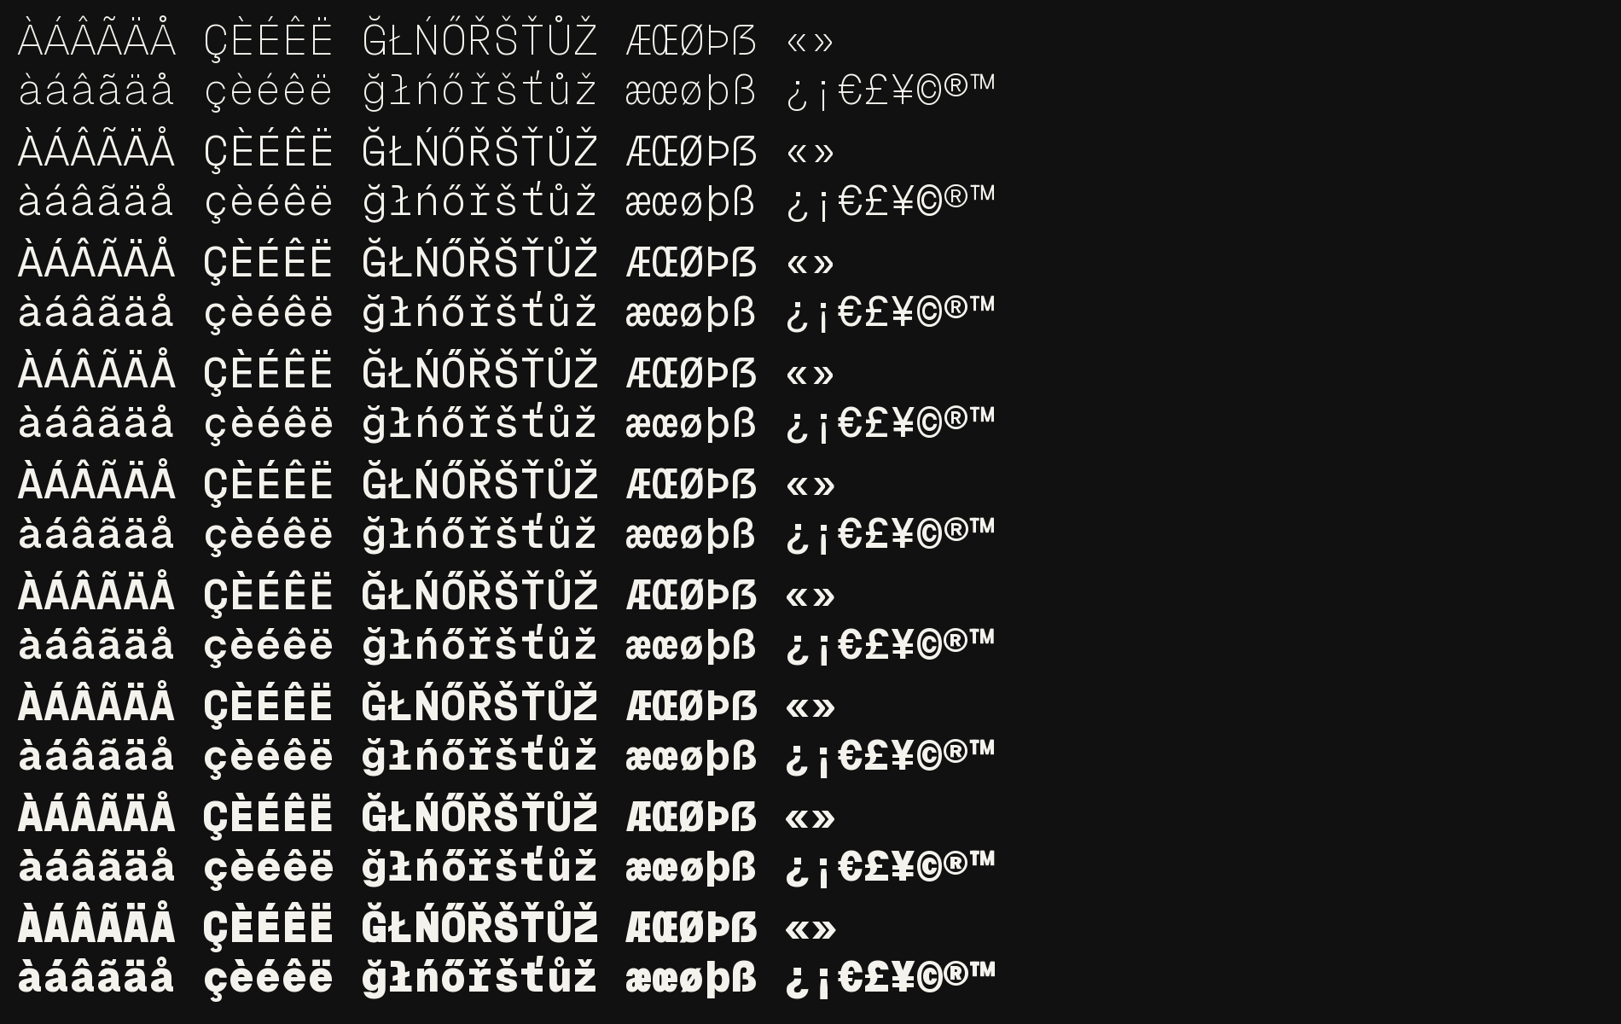
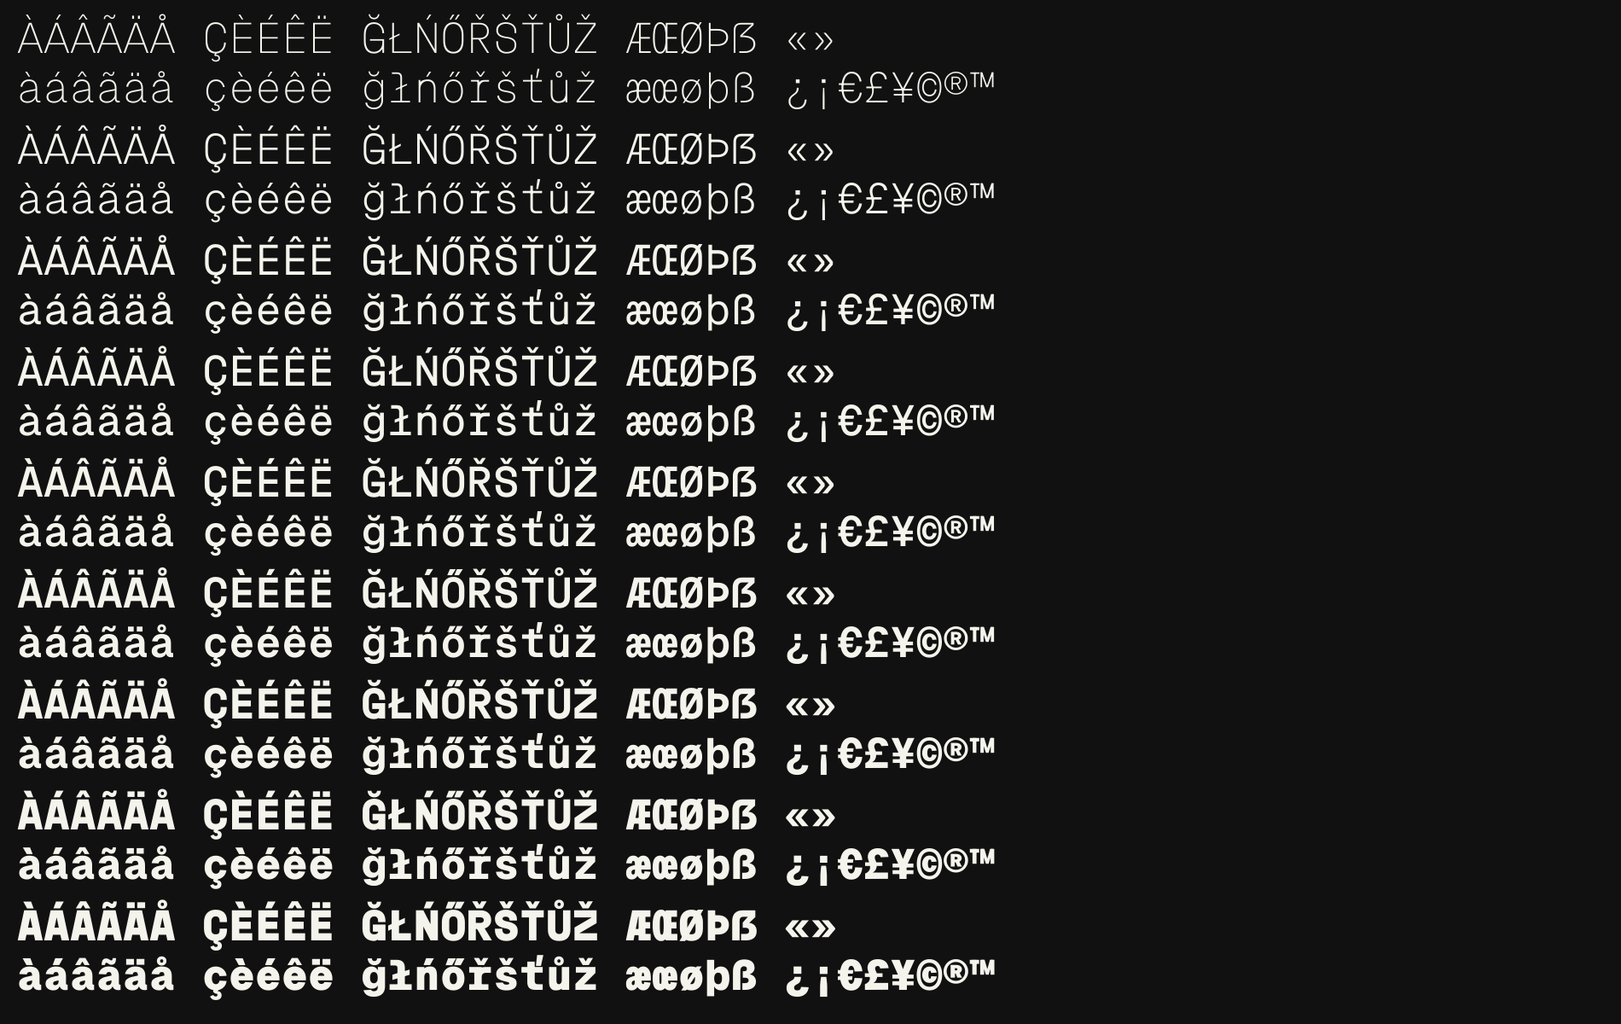
README and article images redrawn from the current font (scripts/images.py, make images); hero wordmark at weight 650

diff --git a/scripts/images.py b/scripts/images.py
@@ -1,0 +1,97 @@
+"""The README and article images, drawn from the built variable font so they never show an old glyph.
+Usage (from the repo root, after `make build`): python3 scripts/images.py   — needs Pillow."""
+from PIL import Image, ImageDraw, ImageFont
+
+VF = 'fonts/variable/ProxyMono[wght].ttf'
+INK, GREY, RULE, PAPER = (244, 244, 236), (140, 140, 140), (52, 52, 52), (17, 17, 17)
+NAMES = ['Thin', 'ExtraLight', 'Light', 'Regular', 'Medium', 'SemiBold', 'Bold', 'ExtraBold', 'Black']
+_cache = {}
+
+def font(size, wght=400):
+    k = (round(size), wght)
+    if k not in _cache:
+        f = ImageFont.truetype(VF, k[0]); f.set_variation_by_axes([wght]); _cache[k] = f
+    return _cache[k]
+
+def text(d, xy, s, size, wght=400, fill=INK, anchor='ls'):
+    d.text(xy, s, font=font(size, wght), fill=fill, anchor=anchor)
+
+def hero():
+    im = Image.new('RGB', (1900, 1745), 'black'); d = ImageDraw.Draw(im)
+    text(d, (32, 470), 'PROXY', 525, 650, 'white'); text(d, (32, 932), 'MONO', 525, 650, 'white')
+    text(d, (50, 1033), 'A monospace font rebuilt by code, for code.', 46, 400, 'white')
+    text(d, (1850, 1033), '100-900 · OFL', 36, 400, GREY, 'rs')
+    d.line([(50, 1094), (1850, 1094)], fill=RULE, width=2)
+    for i in range(9):
+        text(d, (50 + i * 200, 1262), 'Aa', 131, (i + 1) * 100, 'white')
+        text(d, (54 + i * 200, 1322), str((i + 1) * 100), 28, 400, GREY)
+    d.line([(50, 1374), (1850, 1374)], fill=RULE, width=2)
+    rows = ['ABCDEFGHIJKLMNOPQRSTUVWXYZ  0123456789', 'abcdefghijklmnopqrstuvwxyz  !?&@%${}[]()',
+            '0O 1lI|  != => <= ->  ←↑→↓  ①②③  ¼½  €£¥']
+    for r, s in zip((1480, 1578, 1672), rows): text(d, (50, r), s, 64.2, 500, 'white')
+    im.save('documentation/hero.png')
+
+def letters():
+    W = 1900; mx = 165; lines = ['COMING', 'NOW Q4', '2026']
+    size = (W - 2 * mx) / 6 / 0.7; lh = size * 0.98; top = 110
+    im = Image.new('RGB', (W, int(top + len(lines) * lh + 170)), 'black'); d = ImageDraw.Draw(im)
+    for j, l in enumerate(lines): text(d, (mx, top + j * lh + size * 0.8), l, size, 650, 'white')
+    y = top + len(lines) * lh + 40
+    d.line([(mx, y), (W - mx, y)], fill=(70, 70, 70), width=2)
+    text(d, (mx, y + 66), 'M N W G Q rebuilt on one stem. C G O Q and 0 share one oval.', 34, 400, 'white')
+    text(d, (W - mx, y + 66), '650', 34, 400, GREY, 'rs')
+    im.save('documentation/letters.png')
+
+def weights():
+    im = Image.new('RGB', (1900, 1200), PAPER); d = ImageDraw.Draw(im)
+    for i, n in enumerate(NAMES):
+        y = 135 + 126 * i; w = (i + 1) * 100
+        text(d, (40, y - 16), str(w), 28, 400, GREY); text(d, (152, y), n, 97, w)
+        text(d, (1860, y - 16), 'if (a >= 0) { return b[i] * 1.5; }', 30, w, INK, 'rs')
+        d.line([(40, y + 23), (1860, y + 23)], fill=(40, 40, 40), width=1)
+    im.save('documentation/weights.png')
+
+CODE = ['// Reject a request whose token has expired.', 'export function requireFresh(req, res, next) {',
+        '  const token = decode(req.headers.authorization);', '  const now = Math.floor(Date.now() / 1000);',
+        '  if (!token || now >= token.exp) {', "    return res.status(401).json({ error: 'token expired' });", '  }',
+        '  req.user = { id: token.sub, ttl: token.exp - now };', '  next();', '}']
+KEYWORDS = ('export', 'function', 'const', 'if', 'return')
+
+def code():
+    im = Image.new('RGB', (1900, 910), PAPER); d = ImageDraw.Draw(im); size = 38; adv = size * 0.7
+    for i, line in enumerate(CODE):
+        y = 90 + 60 * i
+        text(d, (92, y), str(i + 1), size, 400, (110, 110, 110), 'rs')
+        if line.startswith('//'): text(d, (147, y), line, size, 400, GREY); continue
+        x = 147; rest = line
+        while rest:                                   # keywords in Bold, the rest in Regular, on one grid
+            kw = next((k for k in KEYWORDS if rest.startswith(k) and not rest[len(k):len(k) + 1].isalnum()), None)
+            if kw and (x == 147 or line[int(round((x - 147) / adv)) - 1] == ' '):
+                text(d, (x, y), kw, size, 700); x += adv * len(kw); rest = rest[len(kw):]
+            else:
+                text(d, (x, y), rest[0], size, 400); x += adv; rest = rest[1:]
+    d.line([(40, 690), (1860, 690)], fill=(40, 40, 40), width=1)
+    small = "0O 1lI| {}[]() != => <= -> :: ;, '\" `   for (let i = 0; i < l1.length; i++) {}"
+    for px, y in ((11, 752), (13, 797), (16, 850)):
+        text(d, (40, y - 4), str(px), 20, 400, GREY); text(d, (110, y), small, px * 2, 400)
+    im.save('documentation/code.png')
+
+def specimen():
+    im = Image.new('RGB', (1900, 1200), PAPER); d = ImageDraw.Draw(im)
+    up, lo = 'ÀÁÂÃÄÅ ÇÈÉÊË ĞŁŃŐŘŠŤŮŽ ÆŒØÞẞ «»', 'àáâãäå çèéêë ğłńőřšťůž æœøþß ¿¡€£¥©®™'
+    for i in range(9):
+        text(d, (20, 62 + 130 * i), up, 44, (i + 1) * 100); text(d, (20, 120 + 130 * i), lo, 44, (i + 1) * 100)
+    im.save('documentation/specimen.png')
+    im.resize((1621, 1024), Image.LANCZOS).save('documentation/article/specimen.png')
+
+def weight_axis():
+    frames = []
+    for i in range(36):
+        w = round(100 + 800 * (1 - abs(1 - i / 18)))
+        im = Image.new('RGB', (1900, 560), PAPER); d = ImageDraw.Draw(im)
+        text(d, (60, 310), 'Proxy Mono', 246, w); text(d, (50, 482), 'wght %d' % w, 60, 500, GREY)
+        frames.append(im.convert('P', palette=Image.ADAPTIVE, colors=32))
+    frames[0].save('documentation/weight-axis.gif', save_all=True, append_images=frames[1:], duration=90, loop=0)
+
+if __name__ == '__main__':
+    for f in (hero, letters, weights, code, specimen, weight_axis): f()

diff --git a/README.md b/README.md
@@ -19,7 +19,7 @@ Every number above is measured from the built fonts, not estimated.
 
 ![COMING NOW Q4 2026, set in Proxy Mono at weight 650: the rebuilt M, N, W, G and Q, the shared oval of C, G, O and Q, and the zero, which is the O with a slash](documentation/letters.png)
 
-![Proxy Mono: the wordmark at Black, the nine weights, the alphabet and the look-alike characters](documentation/hero.png)
+![Proxy Mono: the wordmark at weight 650, the nine weights, the alphabet and the look-alike characters](documentation/hero.png)
 
 Specimen and type tester: https://www.monoproxy.studio/lab/proxymono
 
